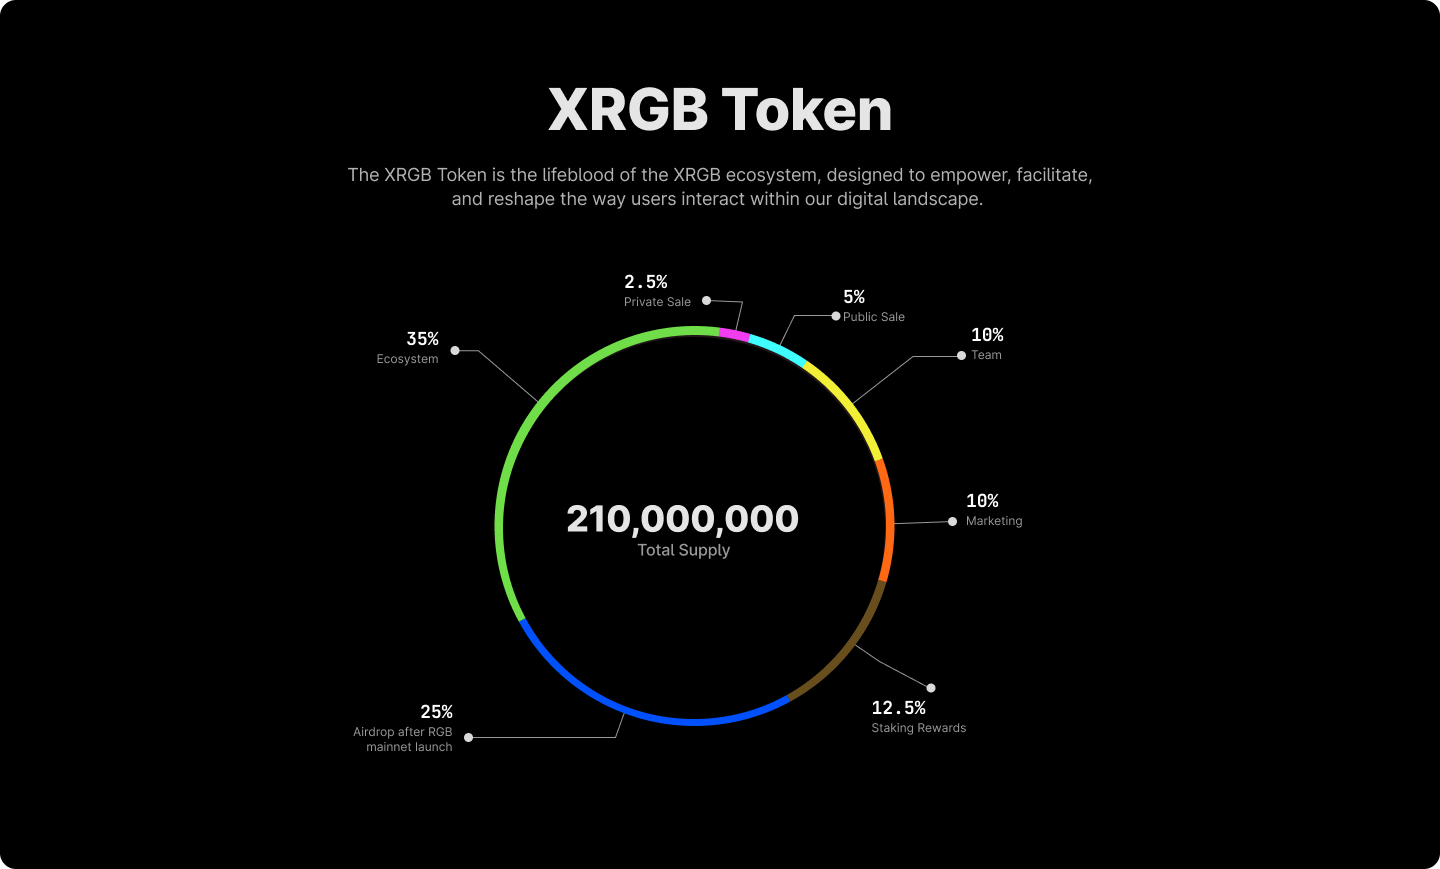
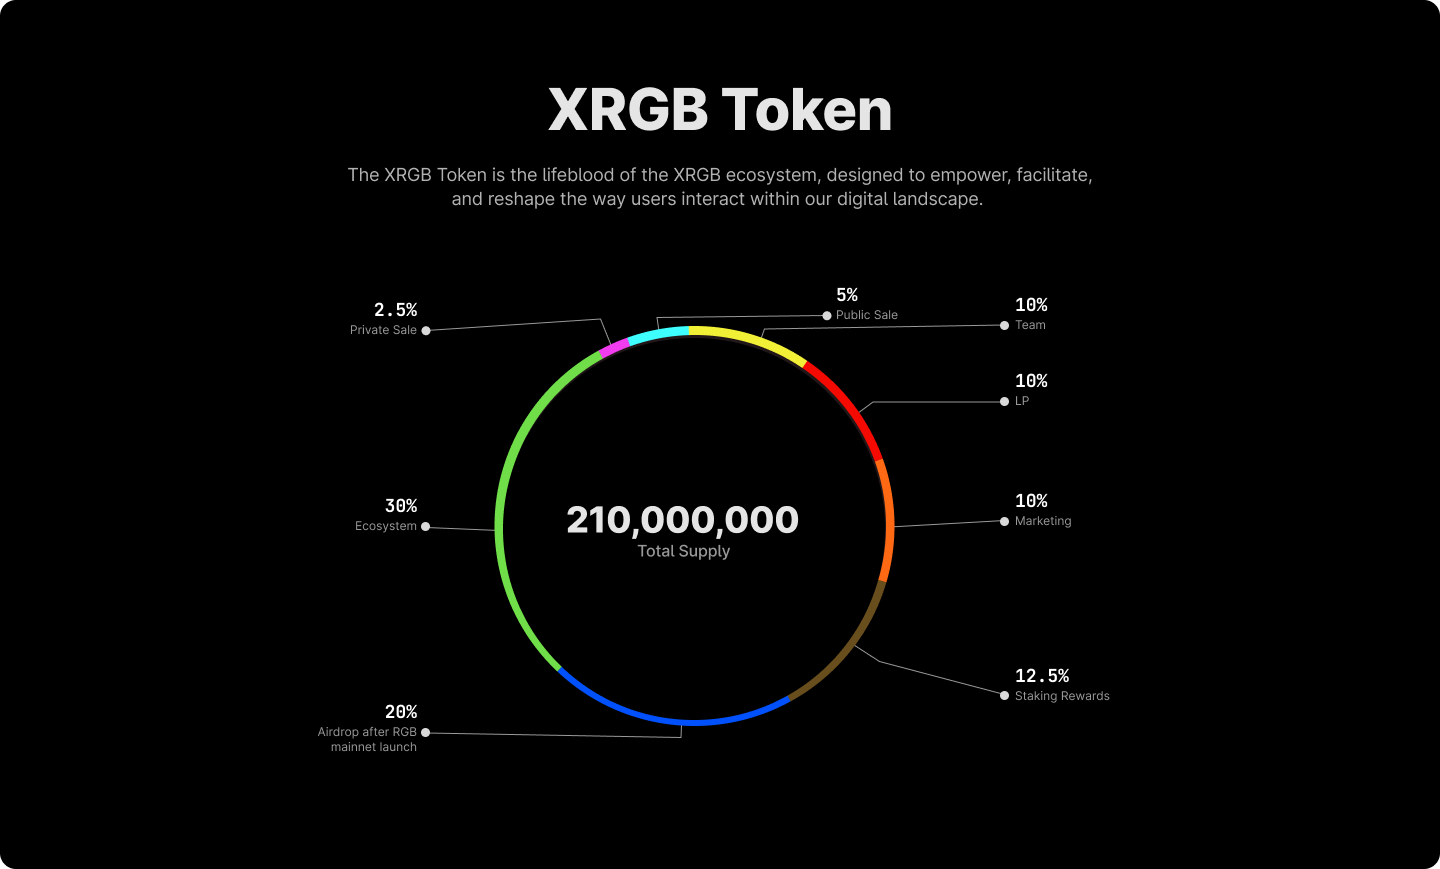
update: xrgb launchpad data

diff --git a/src/pages/launchpad/PrivatePadDataList.tsx b/src/pages/launchpad/PrivatePadDataList.tsx
@@ -27,9 +27,9 @@ import { ReactComponent as DiscordSvg } from 'assets/socialLinksIcon/Discord.svg
 import { ReactComponent as TgSvg } from 'assets/socialLinksIcon/Tg.svg'
 import { ReactComponent as InstagramSvg } from 'assets/imgs/profile/links/instagram.svg'
 import { ReactComponent as LinkinSvg } from 'assets/socialLinksIcon/linkin.svg'
-
 import BlodeAvatar from './avatar/blade-icon.ico'
 import EquilibriaAvatar from './avatar/equilibria-logo.png'
+import XrgbAvatar from './avatar/xrgb.png'
 import poseiswapAvatar from './avatar/poseiswap.jpeg'
 import typeltpAvatar from './avatar/typelt.png'
 import LasmetAvatar from './avatar/lasmet-avatar.png'
@@ -54,6 +54,7 @@ import CreateProtocolPage from './imgs/CreateProtocolPage.jpg'
 // import Finceptor from './imgs/Finceptor.png'
 import FinceptorAvatar from './imgs/Finceptor_Avatar.jpeg'
 import MultibitContent1 from './imgs/multibit-content1.png'
+import XrgbBanner from './imgs/XrgbBanner.png'
 import MultiBitAva from './imgs/multi-bit-ava.png'
 import MultibitBanner from './imgs/multibit-banner.png'
 import BitStableInfo from './imgs/BitStable-info.png'
@@ -2918,13 +2919,14 @@ const XRGBLPProjectInfo: IProjectInfo[] = [
       >
         <p style={{ fontWeight: 500 }}>Total Supply = 210,000,000</p>
         <ul>
-          <li>Public Sale: 5%. (Bounce 2% Pancake 1.5% Satori 1.5%) TGE 100% across three platforms</li>
-          <li>Private Sale: 2.5% (TGE 0% 12 month linear vesting)</li>
-          <li>Airdrop after RGB mainnet launch: 25.0%</li>
-          <li>Ecosystem: 35.0% (TGE 10% 12 month linear vesting)</li>
-          <li>Marketing: 10.0% (TGE 20% 12 month linear vesting)</li>
-          <li>Staking Rewards: 12.5% (Distribute after mainnet)</li>
-          <li>Team: 10% (TGE 0% 24 month linear vesting)</li>
+          <li>Public Sale: 5% TGE 100% across three platforms</li>
+          <li>Private Sale: 2.5% TGE 0% 12 month linear vesting</li>
+          <li>Airdrop after RGB mainnet launch: 20% Distribute after mainnet</li>
+          <li>Ecosystem: 30% TGE 10% 12 month linear vesting</li>
+          <li>Marketing: 10% TGE 20% 12 month linear vesting</li>
+          <li>LP: 10% TGE 50% 6 month linear vesting. Liquidity on Swap</li>
+          <li>Staking Rewards: 12.5% Distribute after mainnet</li>
+          <li>Team: 10% TGE 0% 24 month linear vesting</li>
         </ul>
         <div>
           <img width={'100%'} src="/imgs/xrgb-tokenomics.png" />
@@ -3318,17 +3320,17 @@ export const XRGBFixedSwapData: IPrivatePadProp = {
   },
   hideUpcomingCountdown: true,
   poolTypeName: 'Fixed Price - Whitelist',
-  img: 'https://images-v3.bounce.finance/c5937d0e504430dc625d62e764881cd3-1707022012.png',
-  avatar: '/imgs/xrgb_avatar.jpg',
+  img: XrgbBanner,
+  avatar: XrgbAvatar,
   title: 'XRGB Chain',
   chainId: 1,
-  tokenName: '$ETH',
+  tokenName: '$XRGB',
   whitePaperLink: 'https://docs.xrgb.xyz/',
   upcomingLink: routes.thirdPart.XrgbFixedSwap,
   liveLink: routes.thirdPart.XrgbFixedSwap,
   projectInfo: XRGBLPProjectInfo,
   tokenMetrics: [],
-  desc: 'XRGB is composed of two components: the protocol and the blockchain. XRGB protocol is an interoperability protocol designed for Bitcoin assets and layer2s. It aims to improve the liquidity and efficiency of Bitcoin assets via decentralized massage passing and liquid transfer mechanism. XRGB chain implemented XRGB protocol and introduced the enhanced transactional privacy of RGB protocol. It aspires to be the quintessential Bitcoin DeFi layer2, prioritizing scalability and privacy while fostering a vibrant asset liquidity.',
+  desc: 'XRGB is composed of two components: the protocol and the blockchain. XRGB protocol is an interoperability protocol designed for Bitcoin assets and ERC404 assets.  It aims to improve the liquidity and efficiency of Bitcoin assets via decentralized massage passing and liquid transfer mechanism. XRGB chain implements the XRGB protocol and introduces the enhanced transactional privacy of the RGB protocol. It aspires to be the quintessential Bitcoin DeFi layer2, prioritizing scalability and privacy while fostering a vibrant asset liquidity.',
   social: XRGBSocial,
   moreData: [
     { title: 'Token Name', content: '$XRGB' },
